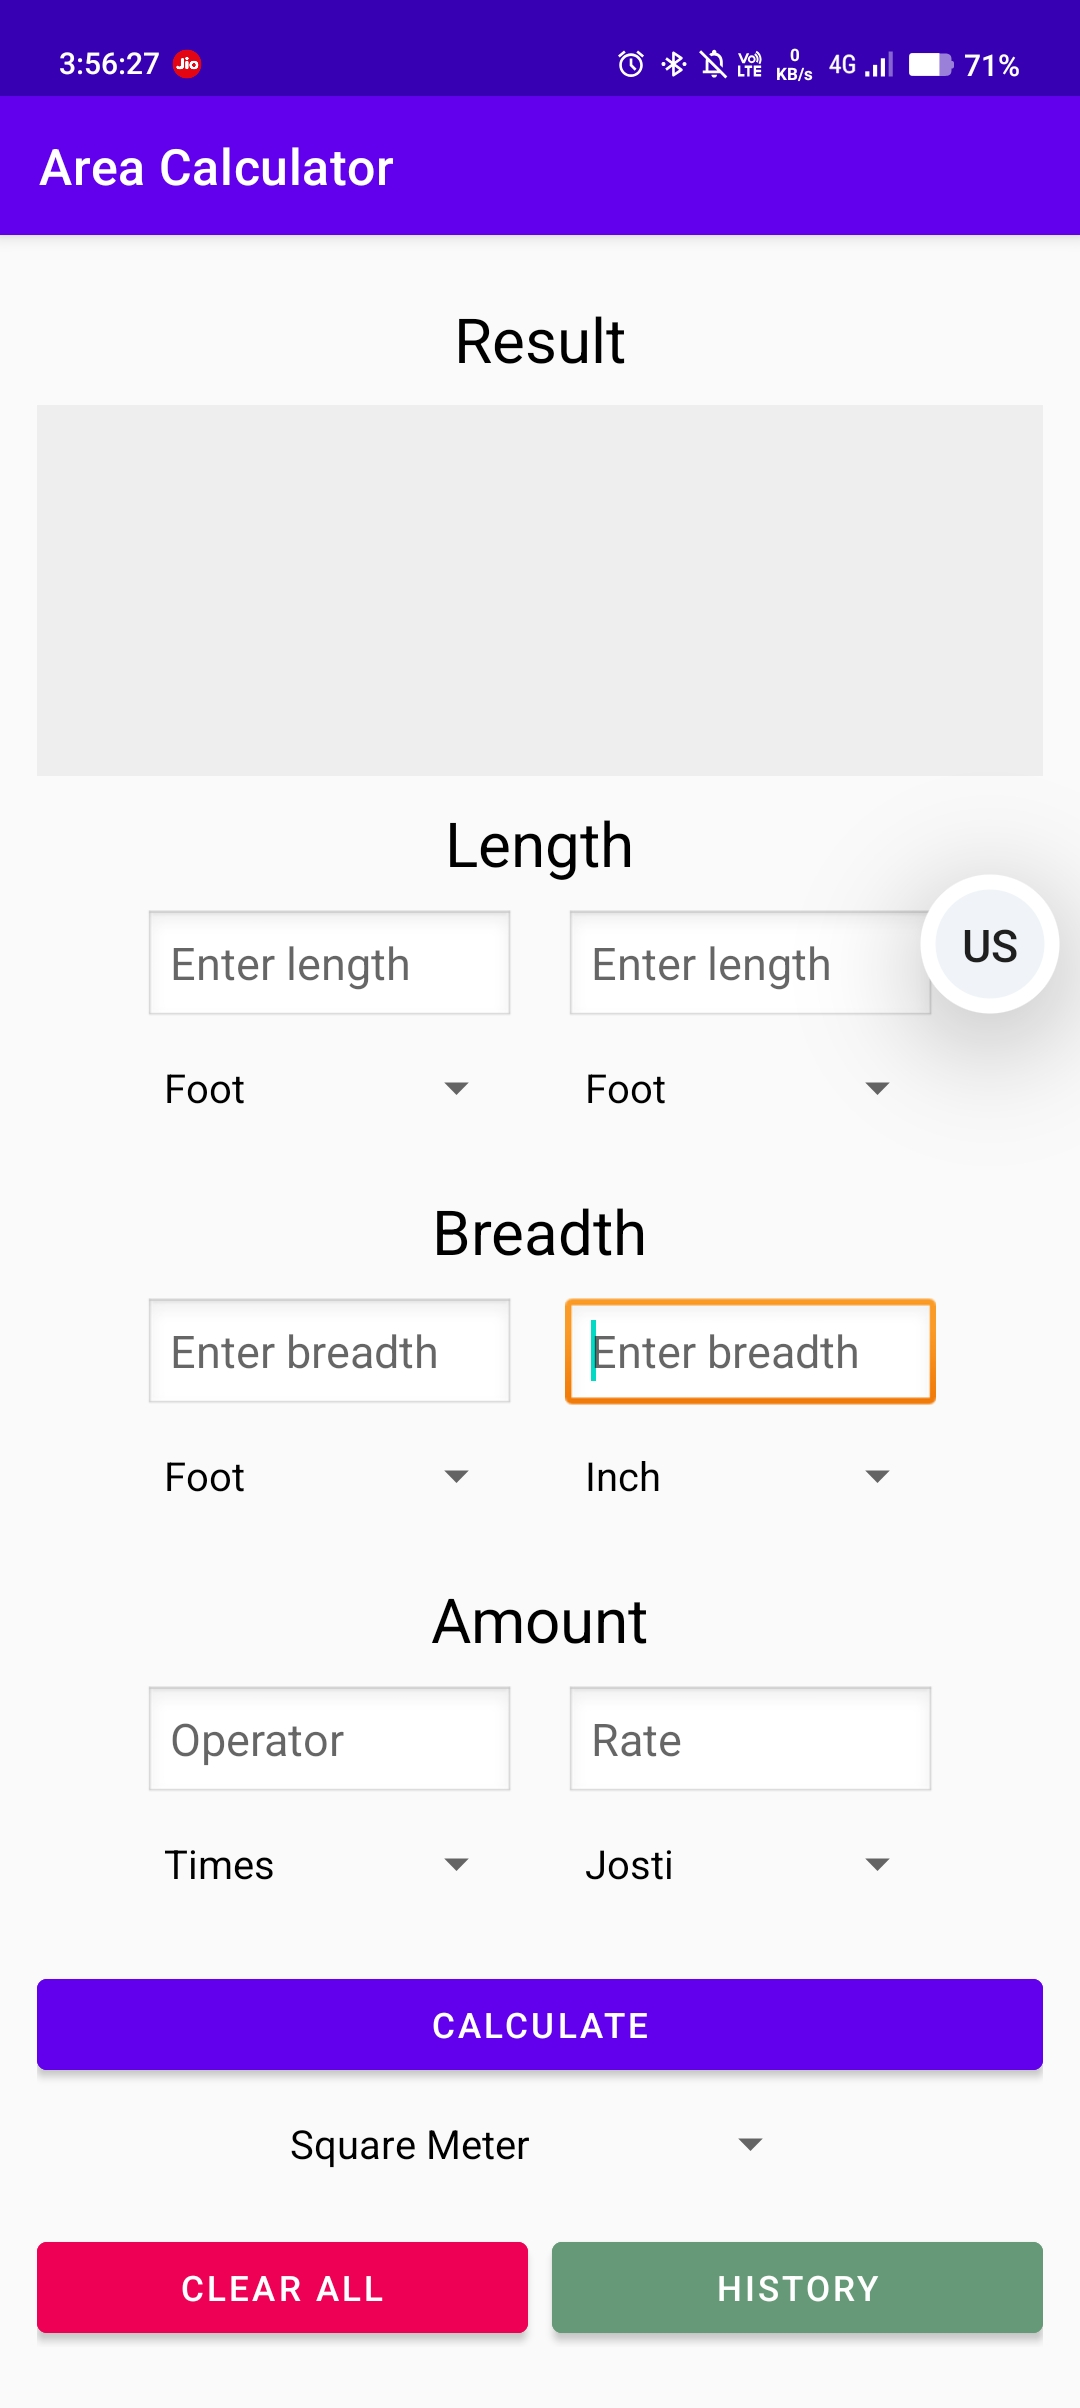
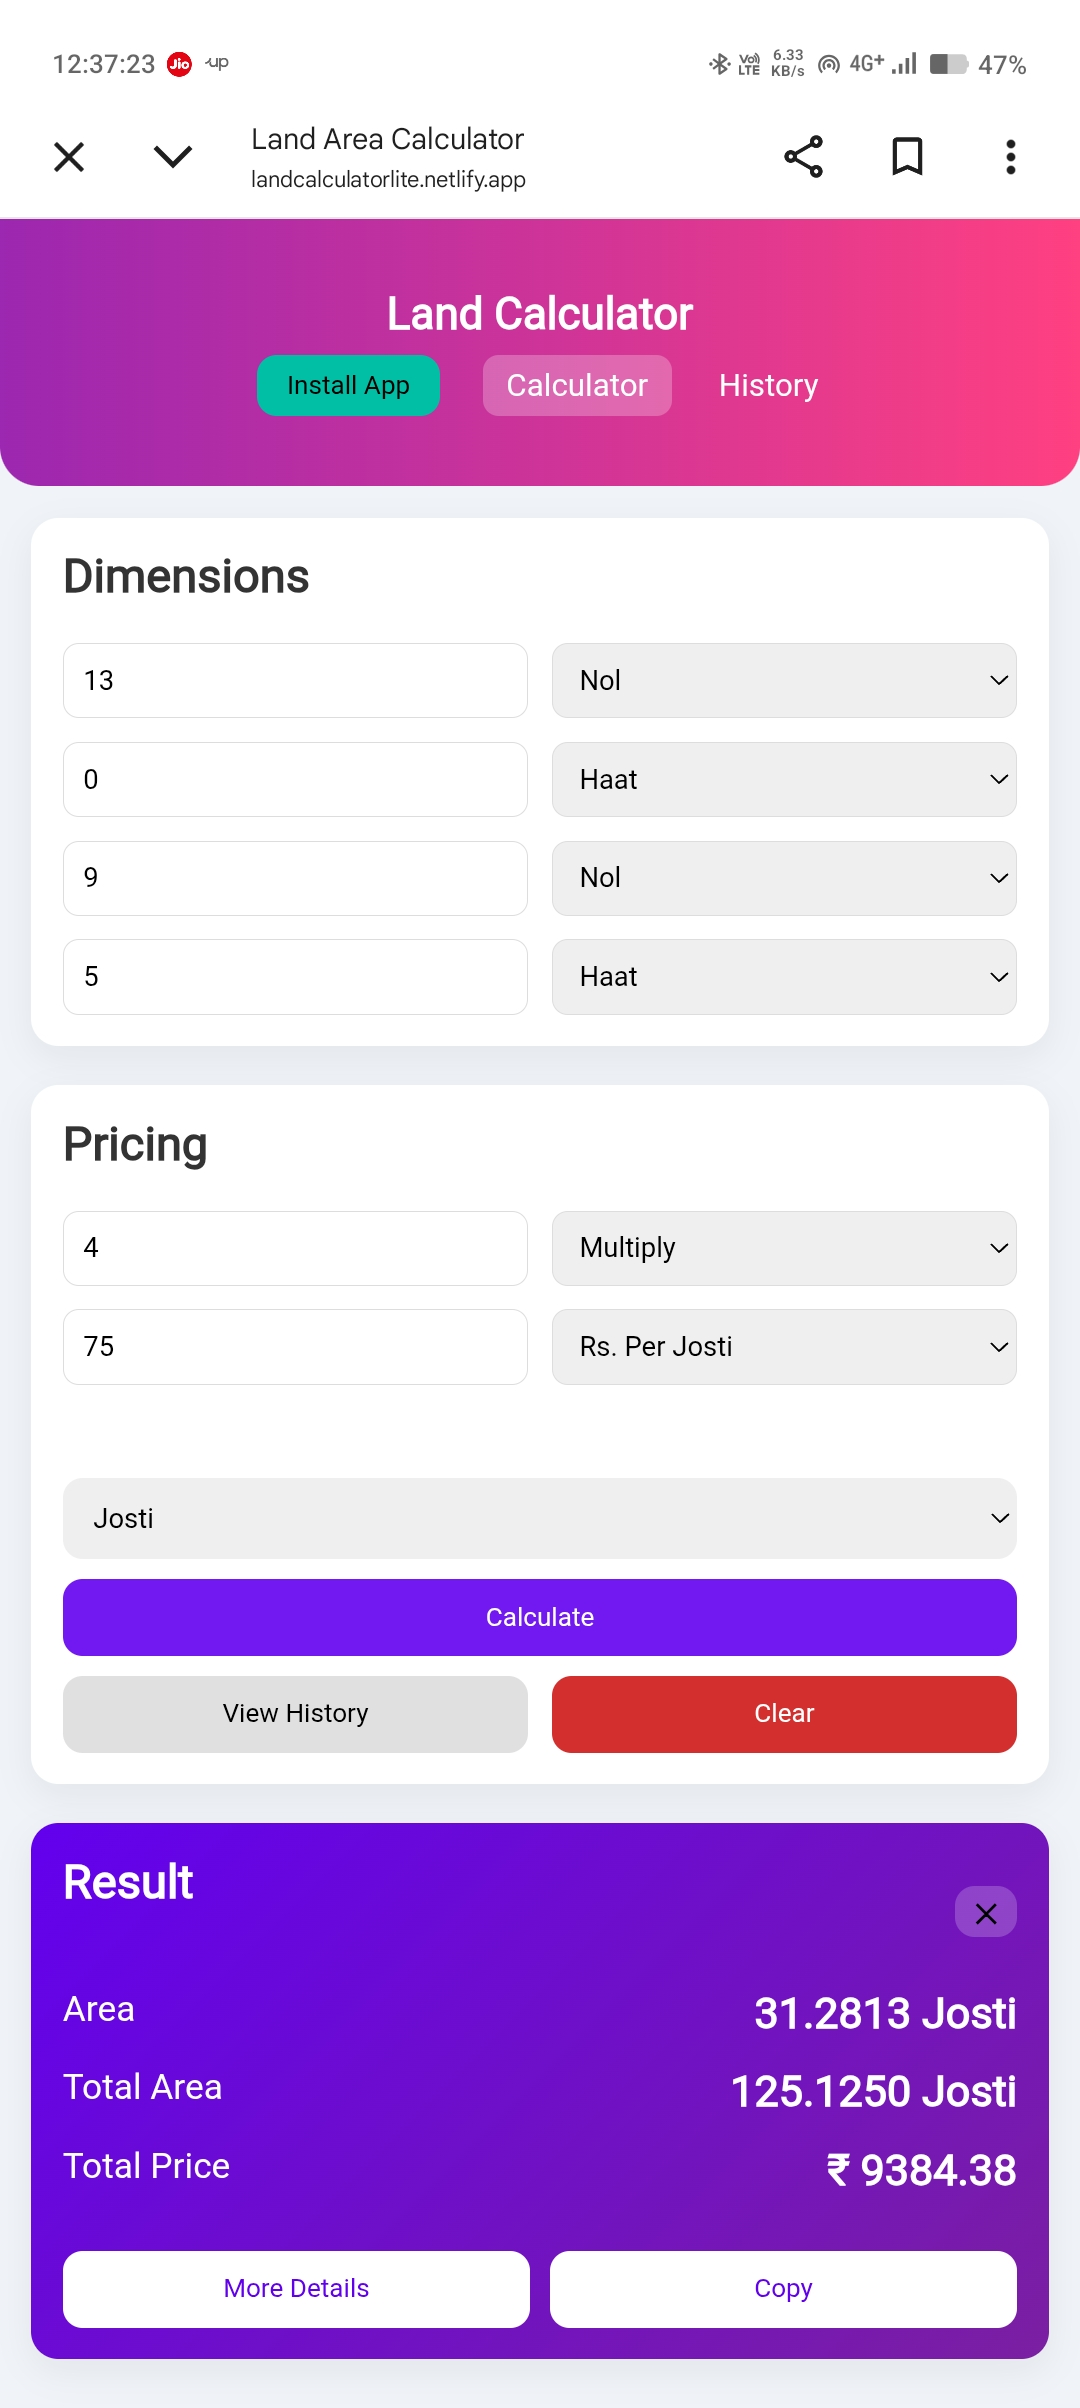
wip

diff --git a/projects.html b/projects.html
@@ -26,24 +26,37 @@
 <section class="section fade-in">
     <h2>Web Projects</h2>
     <div class="project-list">
+    
         <div class="project-card">
-            <a href="https://knowlet.in/" target="_blank">Knowlet</a>
+            <div class="preview-container">
+                <iframe src="https://knowlet.in/"></iframe>
+            </div>
+            <h3>
+                <a href="https://knowlet.in/" target="_blank">Knowlet</a>
+            </h3>
             <p>Educational web app for students</p>
         </div>
+    
         <div class="project-card">
-            <a href="https://digitalrdn.netlify.app/" target="_blank">DigitalRDN</a>
+            <div class="preview-container">
+                <iframe src="https://landcalculatorlite.netlify.app/"></iframe>
+            </div>
+            <h3>
+                <a href="https://landcalculatorlite.netlify.app/" target="_blank">Land Calculator</a>
+            </h3>
+            <p>Land Calculator</p>
+        </div>
+    
+        <div class="project-card">
+            <div class="preview-container">
+                <iframe src="https://digitalrdn.netlify.app/"></iframe>
+            </div>
+            <h3>
+                <a href="https://digitalrdn.netlify.app/" target="_blank">DigitalRDN</a>
+            </h3>
             <p>E-commerce website project</p>
         </div>
-    </div>
-</section>
-
-<section class="section fade-in">
-    <h2>App Projects</h2>
-    <div class="project-list">
-        <div class="project-card">
-            <a href="https://github.com/SKR0411/LandCalculatorApp/releases/tag/v1.0" target="_blank">Land Area Calculator</a>
-            <p>Utility app for land measurements</p>
-        </div>
+    
     </div>
 </section>
 

diff --git a/css/style.css b/css/style.css
@@ -332,3 +332,26 @@ body {
     margin-bottom: 18px;
 }
 
+/* =====================
+   PROJECT PREVIEW FIX
+===================== */
+
+.preview-container {
+    width: 100%;
+    height: 200px;
+    overflow: hidden;
+    border-radius: 12px;
+    position: relative;
+}
+
+/* Force desktop view + scale */
+.preview-container iframe {
+    width: 1200px;
+    height: 800px;
+    border: none;
+
+    transform: scale(0.25);
+    transform-origin: top left;
+
+    pointer-events: none;
+}
